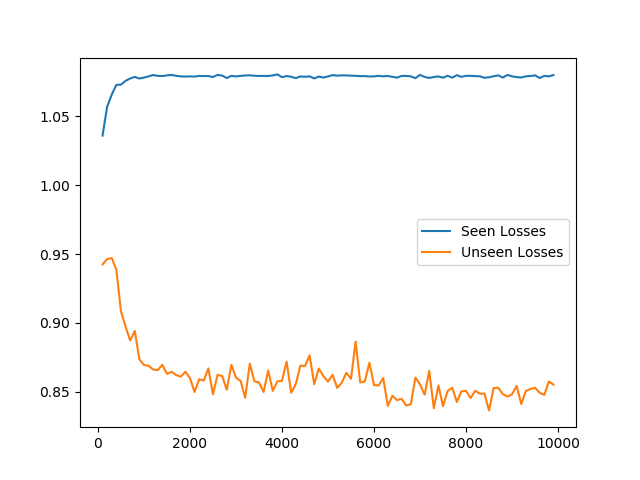
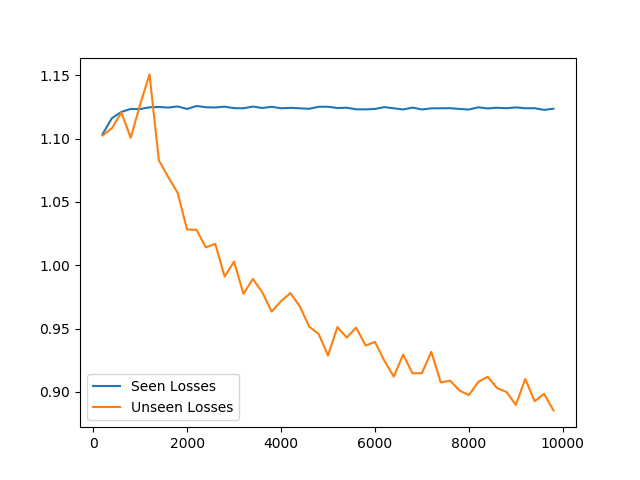
use sag logistic regression classifier

diff --git a/cub/predicting_encoding_losses.py b/cub/predicting_encoding_losses.py
@@ -109,10 +109,10 @@ unseen_features, unseen_labels = pickle.load(open('pickle/test_unseen_data.pkl',
 all_features = np.concatenate((train_features, unseen_features))
 all_labels = np.concatenate((train_labels, unseen_labels))
 
-# classifier = LogisticRegression(C=0.316, max_iter=500, solver='sag', n_jobs=1000, verbose=1)
-# classifier.fit(all_features, all_labels)
-# pickle.dump(classifier, open('pickle_test/logres_image_classifier_ground_truth.pkl', 'wb'))
-classifier = pickle.load(open('pickle_test/logres_image_classifier_ground_truth.pkl', 'rb'))
+classifier = LogisticRegression(C=0.316, max_iter=500, solver='sag', n_jobs=1000, verbose=1)
+classifier.fit(all_features, all_labels)
+pickle.dump(classifier, open('pickle/logres_image_classifier_ground_truth.pkl', 'wb'))
+# classifier = pickle.load(open('pickle_test/logres_image_classifier_ground_truth.pkl', 'rb'))
 all_real_weights = np.concatenate((classifier.coef_, np.asarray([classifier.intercept_]).T), axis=1)
 
 # classifier.fit(train_features, train_labels)
